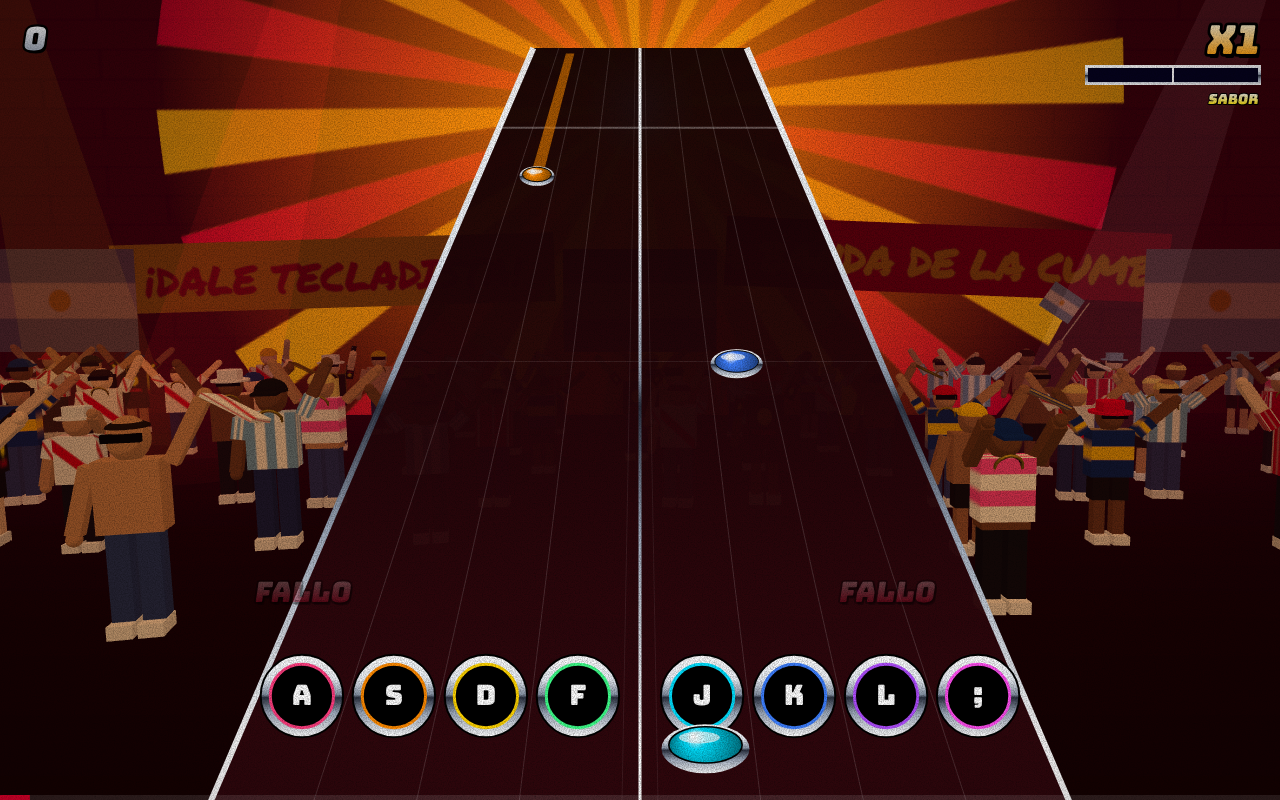
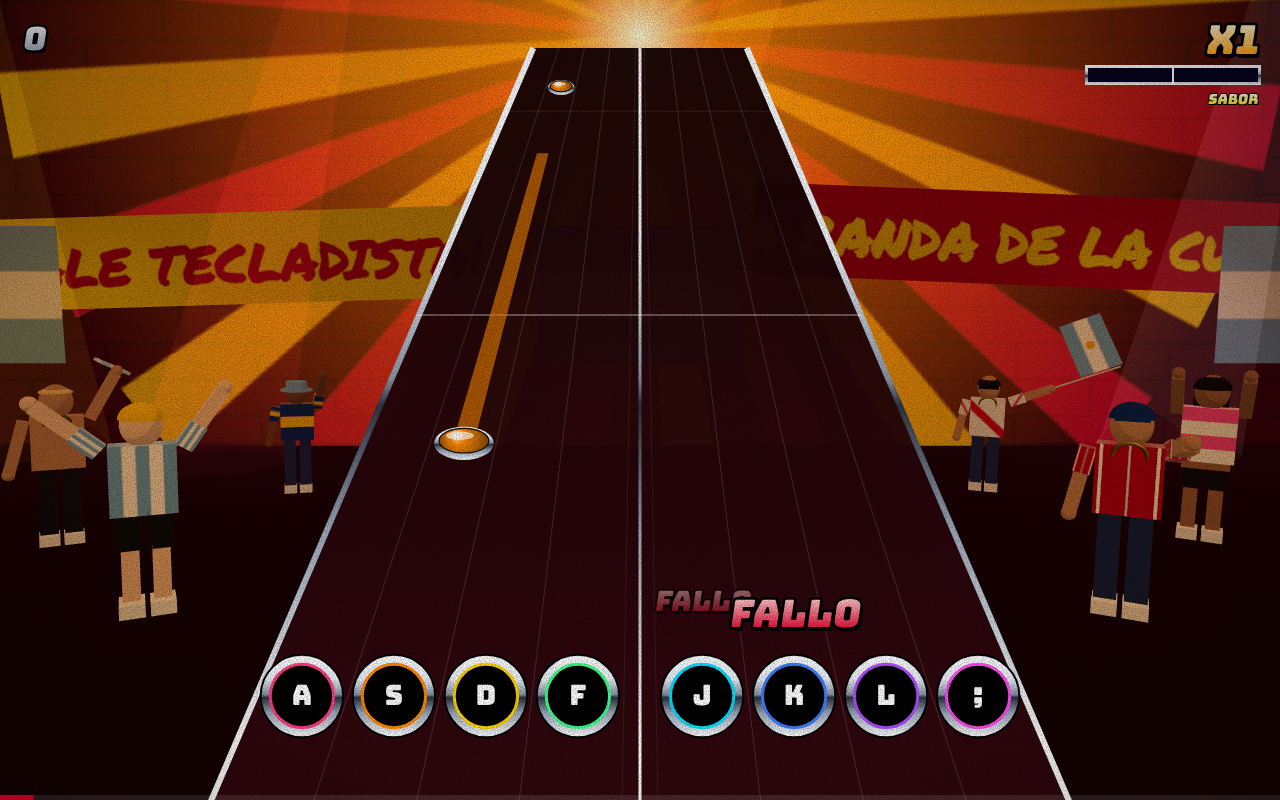
Cut the crowd to a handful of fans facing the player
Swap the packed hall for six fans spread either side of the highway, each
turned to face the stage, in a smaller room. The 2D fallback crowd is
trimmed to match.

Claude-Session: https://claude.ai/code/session_01XLQYPMCuN2HjRpXRb6iui4

diff --git a/src/render/crowd3d.ts b/src/render/crowd3d.ts
@@ -1,5 +1,5 @@
 /**
- * The bailanta in 3D: a packed hall of low-poly cumbia villera fans in
+ * The bailanta in 3D: a handful of low-poly cumbia villera fans in
  * football shirts, tracksuits, gorritas and bucket hats, jumping on the beat,
  * swinging their shirts over their heads and waving flags under sweeping
  * stage lights. Rendered with three.js on its own canvas behind the highway.
@@ -11,7 +11,6 @@ const SKIN = ['#f1c9a5', '#dcab82', '#c08a5e', '#9a6744', '#6e4429']
 const HAIR = ['#120c08', '#1e130b', '#3a2414', '#e8c66a']
 
 type Pose = 'bothUp' | 'wave' | 'pump' | 'clap' | 'shirt' | 'flag' | 'phone'
-const POSES: Pose[] = ['bothUp', 'bothUp', 'wave', 'pump', 'pump', 'clap', 'shirt', 'shirt', 'flag', 'phone']
 
 type Top = 'argentina' | 'boca' | 'river' | 'tee' | 'tracksuit' | 'crop' | 'bare'
 type Hat = 'cap' | 'capBack' | 'bucket' | 'short' | 'long' | 'shaved'
@@ -130,7 +129,7 @@ export class CrowdScene {
     this.renderer = new THREE.WebGLRenderer({ canvas, antialias: true, powerPreference: 'high-performance' })
     this.renderer.setPixelRatio(Math.min(window.devicePixelRatio || 1, 1.5))
     this.scene.background = new THREE.Color('#2a0008')
-    this.scene.fog = new THREE.FogExp2('#3a000c', 0.045)
+    this.scene.fog = new THREE.FogExp2('#3a000c', 0.03)
     this.camera.position.set(0, 2.9, 5)
     this.camera.lookAt(0, 1.6, -8)
 
@@ -167,7 +166,7 @@ export class CrowdScene {
       this.own(new THREE.PlaneGeometry(60, 18)),
       this.own(new THREE.MeshLambertMaterial({ map: wallTex })),
     )
-    wall.position.set(0, 6, -20)
+    wall.position.set(0, 6, -14)
     this.scene.add(wall)
 
     // Sunburst glowing behind the crowd, like the album covers
@@ -203,7 +202,7 @@ export class CrowdScene {
         }),
       ),
     )
-    sun.position.set(0, 9, -19.5)
+    sun.position.set(0, 9, -13.5)
     this.scene.add(sun)
 
     // Trapos hung across the wall
@@ -236,19 +235,19 @@ export class CrowdScene {
         this.own(new THREE.PlaneGeometry(13, 2)),
         this.own(new THREE.MeshLambertMaterial({ map: tex, side: THREE.DoubleSide })),
       )
-      m.position.set(x, y, -19.3)
+      m.position.set(x, y, -13.3)
       m.rotation.z = rot
       this.scene.add(m)
     }
     banner('¡DALE TECLADISTA!', '#ffe600', '#b3001e', -9, 4.2, 0.03)
     banner('LA BANDA DE LA CUMBIA', '#b3001e', '#ffe600', 9, 4.6, -0.04)
     const flag = this.own(ARG_FLAG())
-    for (const x of [-17, 0, 17]) {
+    for (const x of [-15, 0, 15]) {
       const f = new THREE.Mesh(
         this.own(new THREE.PlaneGeometry(4.5, 3)),
         this.own(new THREE.MeshLambertMaterial({ map: flag, side: THREE.DoubleSide })),
       )
-      f.position.set(x, 3.4, -19.2)
+      f.position.set(x, 3.4, -13.2)
       this.scene.add(f)
     }
     return sun
@@ -333,142 +332,137 @@ export class CrowdScene {
       return mesh
     }
 
-    const rows = 6
-    for (let row = 0; row < rows; row++) {
-      const z = -2.5 - row * 2.4
-      const count = 9 + row * 2
-      const span = 9 + row * 2.6
-      for (let i = 0; i < count; i++) {
-        const x = -span + ((i + 0.5 + (r() - 0.5) * 0.6) / count) * span * 2
-        // Front-centre fans would sit right behind the notes; leave that gap
-        if (row < 2 && Math.abs(x) < 2.6) continue
+    // A handful of the player's hinchada, all turned to face the stage
+    const spots: { x: number; z: number; top: Top; hat: Hat; pose: Pose }[] = [
+      { x: -4.7, z: -2.6, top: 'argentina', hat: 'capBack', pose: 'bothUp' },
+      { x: -7.2, z: -5, top: 'bare', hat: 'shaved', pose: 'shirt' },
+      { x: -5.5, z: -8, top: 'boca', hat: 'bucket', pose: 'pump' },
+      { x: 4.7, z: -2.8, top: 'tracksuit', hat: 'cap', pose: 'pump' },
+      { x: 7.1, z: -5.2, top: 'crop', hat: 'long', pose: 'clap' },
+      { x: 5.6, z: -8.2, top: 'river', hat: 'short', pose: 'flag' },
+    ]
+    for (const spot of spots) {
+      const skin = color(pick(SKIN))
+      const { x, z, top, hat, pose } = spot
+      const scale = 0.92 + r() * 0.18
 
-        const skin = color(pick(SKIN))
-        const top = pick<Top>(['argentina', 'argentina', 'boca', 'river', 'tee', 'tracksuit', 'crop', 'bare', 'bare'])
-        const hat = pick<Hat>(top === 'crop' ? ['long', 'long', 'cap'] : ['cap', 'capBack', 'capBack', 'bucket', 'short', 'shaved', 'long'])
-        let pose = pick(POSES)
-        if (pose === 'shirt' && top !== 'bare') pose = 'bothUp'
-        if (top === 'bare' && r() < 0.7) pose = 'shirt'
-        const scale = 0.92 + r() * 0.18
+      const root = new THREE.Group()
+      root.position.set(x, 0, z)
+      root.rotation.y = Math.atan2(-x, 5 - z)
+      root.scale.setScalar(scale)
+      const body = new THREE.Group()
+      root.add(body)
 
-        const root = new THREE.Group()
-        root.position.set(x, 0, z + (r() - 0.5) * 0.8)
-        root.rotation.y = -x * 0.03 + (r() - 0.5) * 0.3
-        root.scale.setScalar(scale)
-        const body = new THREE.Group()
-        root.add(body)
-
-        // Legs: tracksuit bottoms, jeans or football shorts
-        const pants = pick(['#121218', '#1b2a5a', '#2b3d78', 'shorts'])
-        for (const s of [-1, 1]) {
-          if (pants === 'shorts') {
-            body.add(part(box, color('#111'), 0.2, 0.32, 0.22, s * 0.12, 0.74, 0))
-            body.add(part(box, skin, 0.14, 0.5, 0.16, s * 0.12, 0.34, 0))
-          } else {
-            body.add(part(box, color(pants), 0.18, 0.82, 0.2, s * 0.12, 0.5, 0))
-          }
-          body.add(part(box, color('#f2f2f2'), 0.2, 0.12, 0.32, s * 0.12, 0.06, 0.05))
+      // Legs: tracksuit bottoms, jeans or football shorts
+      const pants = pick(['#121218', '#1b2a5a', '#2b3d78', 'shorts'])
+      for (const s of [-1, 1]) {
+        if (pants === 'shorts') {
+          body.add(part(box, color('#111'), 0.2, 0.32, 0.22, s * 0.12, 0.74, 0))
+          body.add(part(box, skin, 0.14, 0.5, 0.16, s * 0.12, 0.34, 0))
+        } else {
+          body.add(part(box, color(pants), 0.18, 0.82, 0.2, s * 0.12, 0.5, 0))
         }
-
-        // Torso
-        const torsoMat = top === 'bare' ? skin : topMat(top)
-        body.add(part(box, torsoMat, 0.52, 0.62, 0.28, 0, 1.2, 0))
-        if (top === 'crop') body.add(part(box, skin, 0.46, 0.14, 0.24, 0, 0.88, 0))
-        if (r() < 0.45) {
-          const chain = new THREE.Mesh(torus, gold)
-          chain.position.set(0, 1.42, 0.13)
-          chain.rotation.x = 0.4
-          body.add(chain)
-        }
-
-        // Head and hair or hat
-        const head = new THREE.Group()
-        head.position.set(0, 1.68, 0)
-        body.add(head)
-        head.add(part(sphere, skin, 0.34, 0.4, 0.34, 0, 0, 0))
-        if (r() < 0.4) {
-          // Wraparound sunglasses
-          head.add(part(box, color('#050505'), 0.3, 0.07, 0.06, 0, 0.03, 0.16))
-        }
-        const hair = color(pick(HAIR))
-        switch (hat) {
-          case 'cap':
-          case 'capBack': {
-            const capMat = color(pick(['#ffffff', '#111111', '#d4001c', '#0b2a6f', '#f5c400']))
-            head.add(part(halfSphere, capMat, 0.36, 0.3, 0.36, 0, 0.05, 0))
-            const visor = part(box, capMat, 0.26, 0.03, 0.2, 0, 0.06, hat === 'cap' ? 0.24 : -0.24)
-            head.add(visor)
-            break
-          }
-          case 'bucket': {
-            const m = color(pick(['#f2f2f2', '#111111', '#e4002b', '#75aadb']))
-            head.add(part(cyl, m, 0.34, 0.16, 0.34, 0, 0.13, 0))
-            head.add(part(cyl, m, 0.52, 0.03, 0.52, 0, 0.06, 0))
-            break
-          }
-          case 'short':
-            head.add(part(halfSphere, hair, 0.36, 0.28, 0.36, 0, 0.04, -0.01))
-            break
-          case 'long':
-            head.add(part(halfSphere, hair, 0.37, 0.3, 0.37, 0, 0.04, 0))
-            head.add(part(box, hair, 0.34, 0.5, 0.12, 0, -0.18, -0.13))
-            break
-          default:
-            head.add(part(halfSphere, hair, 0.345, 0.12, 0.345, 0, 0.1, 0))
-        }
-
-        // Arms pivot at the shoulder and hang down by default
-        const sleeve = top === 'tracksuit' ? topMat('tracksuit') : top === 'argentina' || top === 'boca' || top === 'river' || top === 'tee' ? torsoMat : null
-        const arm = (side: -1 | 1) => {
-          const g = new THREE.Group()
-          g.position.set(side * 0.32, 1.46, 0)
-          if (sleeve) g.add(part(box, sleeve, 0.15, 0.24, 0.16, 0, -0.12, 0))
-          g.add(part(box, skin, 0.12, sleeve ? 0.38 : 0.6, 0.13, 0, sleeve ? -0.42 : -0.3, 0))
-          g.add(part(sphere, skin, 0.13, 0.13, 0.13, 0, -0.64, 0))
-          body.add(g)
-          return g
-        }
-        const armL = arm(-1)
-        const armR = arm(1)
-
-        // Props in the right hand
-        let prop: THREE.Object3D | null = null
-        if (pose === 'shirt') {
-          const pivot = new THREE.Group()
-          pivot.position.set(0, -0.66, 0)
-          const shirt = part(box, topMat(pick(['argentina', 'boca', 'river', 'tee'] as const)), 0.5, 0.04, 0.32, 0.3, 0, 0)
-          pivot.add(shirt)
-          armR.add(pivot)
-          prop = pivot
-        } else if (pose === 'flag') {
-          const pivot = new THREE.Group()
-          pivot.position.set(0, -0.66, 0)
-          pivot.add(part(cyl, color('#d9d2c0'), 0.03, 1.4, 0.03, 0, -0.3, 0))
-          const cloth = new THREE.Mesh(this.own(new THREE.PlaneGeometry(0.9, 0.6)), flagMat)
-          cloth.position.set(0.46, -0.72, 0)
-          pivot.add(cloth)
-          armR.add(pivot)
-          prop = cloth
-        } else if (pose === 'phone') {
-          const phone = part(box, color('#111'), 0.09, 0.16, 0.02, 0, -0.7, 0.06)
-          phone.add(part(box, screen, 0.8, 0.85, 1.2, 0, 0, 0.3))
-          armR.add(phone)
-        }
-
-        this.scene.add(root)
-        this.fans.push({
-          root,
-          body,
-          head,
-          armL,
-          armR,
-          prop,
-          pose,
-          phase: r() * 0.3,
-          offbeat: r() < 0.2,
-          baseY: 0,
-        })
+        body.add(part(box, color('#f2f2f2'), 0.2, 0.12, 0.32, s * 0.12, 0.06, 0.05))
       }
+
+      // Torso
+      const torsoMat = top === 'bare' ? skin : topMat(top)
+      body.add(part(box, torsoMat, 0.52, 0.62, 0.28, 0, 1.2, 0))
+      if (top === 'crop') body.add(part(box, skin, 0.46, 0.14, 0.24, 0, 0.88, 0))
+      if (r() < 0.45) {
+        const chain = new THREE.Mesh(torus, gold)
+        chain.position.set(0, 1.42, 0.13)
+        chain.rotation.x = 0.4
+        body.add(chain)
+      }
+
+      // Head and hair or hat
+      const head = new THREE.Group()
+      head.position.set(0, 1.68, 0)
+      body.add(head)
+      head.add(part(sphere, skin, 0.34, 0.4, 0.34, 0, 0, 0))
+      if (r() < 0.4) {
+        // Wraparound sunglasses
+        head.add(part(box, color('#050505'), 0.3, 0.07, 0.06, 0, 0.03, 0.16))
+      }
+      const hair = color(pick(HAIR))
+      switch (hat) {
+        case 'cap':
+        case 'capBack': {
+          const capMat = color(pick(['#ffffff', '#111111', '#d4001c', '#0b2a6f', '#f5c400']))
+          head.add(part(halfSphere, capMat, 0.36, 0.3, 0.36, 0, 0.05, 0))
+          const visor = part(box, capMat, 0.26, 0.03, 0.2, 0, 0.06, hat === 'cap' ? 0.24 : -0.24)
+          head.add(visor)
+          break
+        }
+        case 'bucket': {
+          const m = color(pick(['#f2f2f2', '#111111', '#e4002b', '#75aadb']))
+          head.add(part(cyl, m, 0.34, 0.16, 0.34, 0, 0.13, 0))
+          head.add(part(cyl, m, 0.52, 0.03, 0.52, 0, 0.06, 0))
+          break
+        }
+        case 'short':
+          head.add(part(halfSphere, hair, 0.36, 0.28, 0.36, 0, 0.04, -0.01))
+          break
+        case 'long':
+          head.add(part(halfSphere, hair, 0.37, 0.3, 0.37, 0, 0.04, 0))
+          head.add(part(box, hair, 0.34, 0.5, 0.12, 0, -0.18, -0.13))
+          break
+        default:
+          head.add(part(halfSphere, hair, 0.345, 0.12, 0.345, 0, 0.1, 0))
+      }
+
+      // Arms pivot at the shoulder and hang down by default
+      const sleeve = top === 'tracksuit' ? topMat('tracksuit') : top === 'argentina' || top === 'boca' || top === 'river' || top === 'tee' ? torsoMat : null
+      const arm = (side: -1 | 1) => {
+        const g = new THREE.Group()
+        g.position.set(side * 0.32, 1.46, 0)
+        if (sleeve) g.add(part(box, sleeve, 0.15, 0.24, 0.16, 0, -0.12, 0))
+        g.add(part(box, skin, 0.12, sleeve ? 0.38 : 0.6, 0.13, 0, sleeve ? -0.42 : -0.3, 0))
+        g.add(part(sphere, skin, 0.13, 0.13, 0.13, 0, -0.64, 0))
+        body.add(g)
+        return g
+      }
+      const armL = arm(-1)
+      const armR = arm(1)
+
+      // Props in the right hand
+      let prop: THREE.Object3D | null = null
+      if (pose === 'shirt') {
+        const pivot = new THREE.Group()
+        pivot.position.set(0, -0.66, 0)
+        const shirt = part(box, topMat(pick(['argentina', 'boca', 'river', 'tee'] as const)), 0.5, 0.04, 0.32, 0.3, 0, 0)
+        pivot.add(shirt)
+        armR.add(pivot)
+        prop = pivot
+      } else if (pose === 'flag') {
+        const pivot = new THREE.Group()
+        pivot.position.set(0, -0.66, 0)
+        pivot.add(part(cyl, color('#d9d2c0'), 0.03, 1.4, 0.03, 0, -0.3, 0))
+        const cloth = new THREE.Mesh(this.own(new THREE.PlaneGeometry(0.9, 0.6)), flagMat)
+        cloth.position.set(0.46, -0.72, 0)
+        pivot.add(cloth)
+        armR.add(pivot)
+        prop = cloth
+      } else if (pose === 'phone') {
+        const phone = part(box, color('#111'), 0.09, 0.16, 0.02, 0, -0.7, 0.06)
+        phone.add(part(box, screen, 0.8, 0.85, 1.2, 0, 0, 0.3))
+        armR.add(phone)
+      }
+
+      this.scene.add(root)
+      this.fans.push({
+        root,
+        body,
+        head,
+        armL,
+        armR,
+        prop,
+        pose,
+        phase: r() * 0.3,
+        offbeat: r() < 0.2,
+        baseY: 0,
+      })
     }
   }
 

diff --git a/src/render/crowd.ts b/src/render/crowd.ts
@@ -1,7 +1,7 @@
 /**
- * Bailanta backdrop in the spirit of the keyboard-battle videos: a packed,
- * smoky dance hall seen from the stage, sweeping lights, phone flashes, a
- * hand-painted trapo and a crowd that jumps on the beat and goes wild as the
+ * Bailanta backdrop in the spirit of the keyboard-battle videos: a small,
+ * smoky room seen from the stage, sweeping lights, phone flashes, a
+ * hand-painted trapo and a handful of fans who jump on the beat and go wild as the
  * combo climbs.
  */
 
@@ -20,7 +20,7 @@ interface Fan {
   offbeat: boolean
 }
 
-const ROWS = 5
+const ROWS = 2
 
 /** Deterministic PRNG so the crowd layout is the same every frame. */
 function rng(seed: number): () => number {
@@ -35,10 +35,10 @@ const FANS: Fan[] = (() => {
   const r = rng(2001)
   const fans: Fan[] = []
   for (let row = 0; row < ROWS; row++) {
-    const count = 26 - row * 3
-    for (let i = 0; i < count; i++) {
+    // A handful either side of the highway, not a packed hall
+    for (const x of row ? [0.08, 0.2, 0.8, 0.92] : [0.14, 0.27, 0.73, 0.86]) {
       fans.push({
-        x: (i + 0.5 + (r() - 0.5) * 0.7) / count,
+        x: x + (r() - 0.5) * 0.03,
         row,
         phase: r() * 0.35,
         pose: Math.floor(r() * 5),
